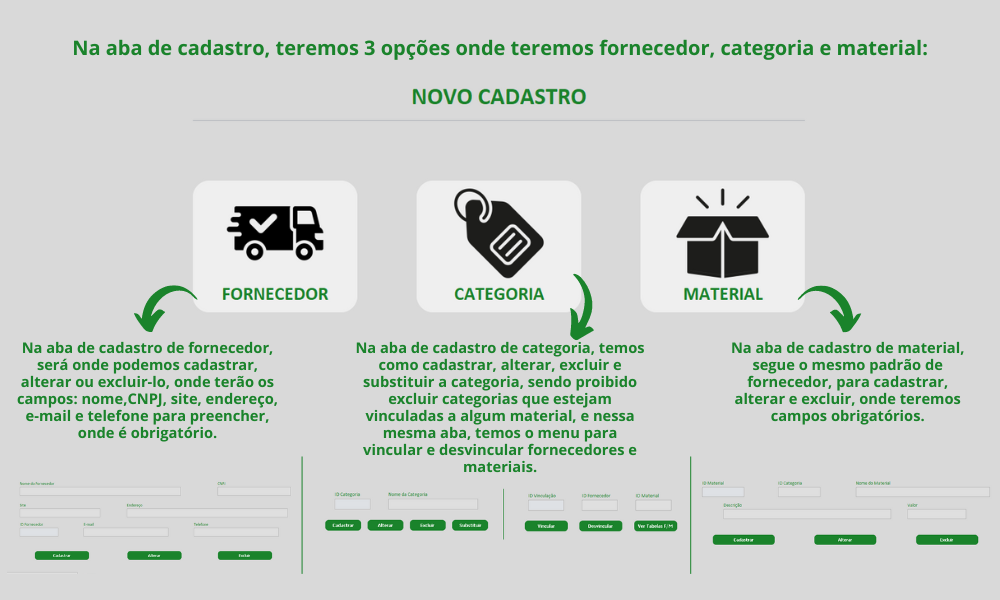
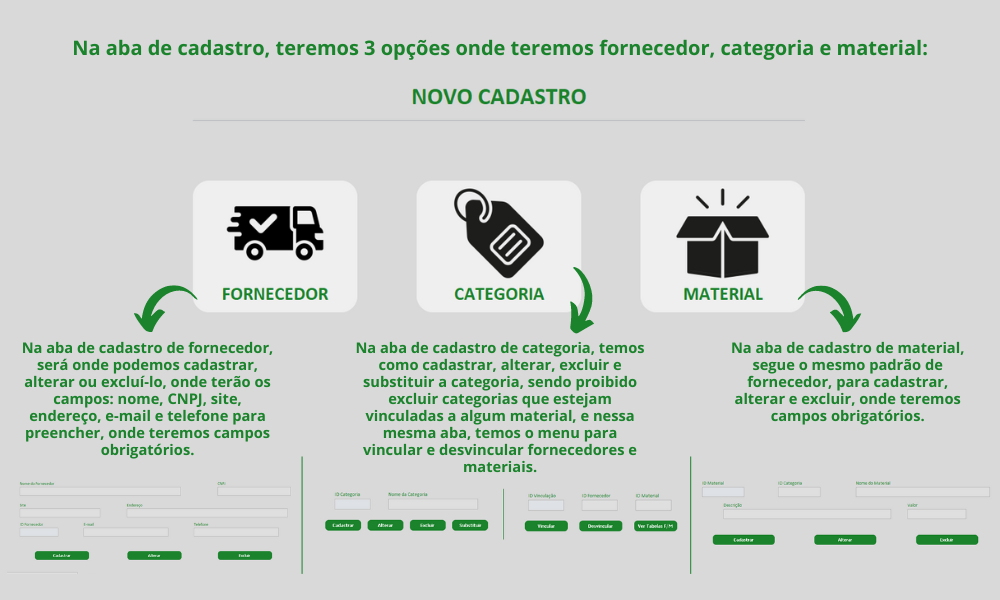
Commit 18.3 - Correção de Bugs nas menságens.

Changed region(s): [[0.0, 0.63, 0.279, 0.78], [0.558, 0.51, 0.589, 0.57], [0.558, 0.45, 0.589, 0.48]]

diff --git a/src/br/com/teste/telas/testeMenuNovo.java b/src/br/com/teste/telas/testeMenuNovo.java
@@ -10,6 +10,7 @@ import br.com.teste.dal.Conexao;
 import br.com.teste.uteis.PopupCategoria;
 import br.com.teste.uteis.PopupTabelasVM;
 import com.k33ptoo.components.KButton;
+import com.mysql.cj.jdbc.exceptions.MysqlDataTruncation;
 import java.awt.Color;
 import javax.swing.JOptionPane;
 import javax.swing.*;
@@ -66,21 +67,24 @@ public class testeMenuNovo extends javax.swing.JFrame {
             pst.setString(5, txtFornEndereco.getText());
             pst.setString(6, txtFornSite.getText());
 
-            if ((txtFornNome.getText().isEmpty()) || (txtFornEmail.getText().isEmpty()) || (txtFornFone.getText().isEmpty())) {
+            if (txtFornNome.getText().isEmpty() || txtFornEmail.getText().isEmpty() || txtFornFone.getText().isEmpty()) {
                 JOptionPane.showMessageDialog(null, "Preencha todos os Campos Obrigatórios.");
             } else {
-
                 int adicionado = pst.executeUpdate();
 
                 if (adicionado > 0) {
                     JOptionPane.showMessageDialog(null, "Fornecedor Cadastrado com Sucesso.");
 
-                    limpar(); //chamando a função de limpar os campos
+                    limpar(); // chamando a função de limpar os campos
                     atualizarTabelas();
                 }
             }
-        } catch (HeadlessException | SQLException e) {
-            JOptionPane.showMessageDialog(null, e);
+        } catch (MysqlDataTruncation e) {
+            JOptionPane.showMessageDialog(null, "Um dos campos excedeu o tamanho permitido.");
+        } catch (SQLException e) {
+            JOptionPane.showMessageDialog(null, "Erro no banco de dados.");
+        } catch (HeadlessException e) {
+            JOptionPane.showMessageDialog(null, "Erro inesperado na interface gráfica.");
         }
     }
 
@@ -151,8 +155,12 @@ public class testeMenuNovo extends javax.swing.JFrame {
                     btnAdicionar.setkHoverColor(new Color(52, 153, 68));
                 }
             }
-        } catch (HeadlessException | SQLException e) {
-            JOptionPane.showMessageDialog(null, e);
+        } catch (MysqlDataTruncation e) {
+            JOptionPane.showMessageDialog(null, "Um dos campos excedeu o tamanho permitido.");
+        } catch (SQLException e) {
+            JOptionPane.showMessageDialog(null, "Erro no banco de dados.");
+        } catch (HeadlessException e) {
+            JOptionPane.showMessageDialog(null, "Erro inesperado na interface gráfica.");
         }
     }
 
@@ -215,8 +223,12 @@ public class testeMenuNovo extends javax.swing.JFrame {
                     atualizarTabelas();
                 }
             }
-        } catch (Exception e) {
-            JOptionPane.showMessageDialog(null, e);
+        } catch (MysqlDataTruncation e) {
+            JOptionPane.showMessageDialog(null, "Um dos campos excedeu o tamanho permitido.");
+        } catch (SQLException e) {
+            JOptionPane.showMessageDialog(null, "Erro no banco de dados.");
+        } catch (HeadlessException e) {
+            JOptionPane.showMessageDialog(null, "Erro inesperado na interface gráfica.");
         }
     }
 
@@ -305,8 +317,12 @@ public class testeMenuNovo extends javax.swing.JFrame {
                     btnCadastrarMat.setkHoverColor(new Color(52, 153, 68));
                 }
             }
-        } catch (HeadlessException | SQLException e) {
-            JOptionPane.showMessageDialog(null, e);
+        } catch (MysqlDataTruncation e) {
+            JOptionPane.showMessageDialog(null, "Um dos campos excedeu o tamanho permitido.");
+        } catch (SQLException e) {
+            JOptionPane.showMessageDialog(null, "Erro no banco de dados.");
+        } catch (HeadlessException e) {
+            JOptionPane.showMessageDialog(null, "Erro inesperado na interface gráfica.");
         }
     }
 
@@ -367,8 +383,12 @@ public class testeMenuNovo extends javax.swing.JFrame {
                     atualizarTabelas();
                 }
             }
-        } catch (HeadlessException | SQLException e) {
-            JOptionPane.showMessageDialog(null, e);
+        } catch (MysqlDataTruncation e) {
+            JOptionPane.showMessageDialog(null, "Um dos campos excedeu o tamanho permitido.");
+        } catch (SQLException e) {
+            JOptionPane.showMessageDialog(null, "Erro no banco de dados.");
+        } catch (HeadlessException e) {
+            JOptionPane.showMessageDialog(null, "Erro inesperado na interface gráfica.");
         }
     }
 
@@ -398,8 +418,12 @@ public class testeMenuNovo extends javax.swing.JFrame {
                     btnCadastrarCat.setkHoverColor(new Color(52, 153, 68));
                 }
             }
-        } catch (HeadlessException | SQLException e) {
-            JOptionPane.showMessageDialog(null, e);
+        } catch (MysqlDataTruncation e) {
+            JOptionPane.showMessageDialog(null, "Um dos campos excedeu o tamanho permitido.");
+        } catch (SQLException e) {
+            JOptionPane.showMessageDialog(null, "Erro no banco de dados.");
+        } catch (HeadlessException e) {
+            JOptionPane.showMessageDialog(null, "Erro inesperado na interface gráfica.");
         }
     }
 
@@ -440,7 +464,7 @@ public class testeMenuNovo extends javax.swing.JFrame {
                     substituir_categoria(); // Chamar a função de substituição de categoria
                 } else {
                     e.printStackTrace();
-                    JOptionPane.showMessageDialog(null, "Erro ao excluir a categoria: " + e.getMessage());
+                    JOptionPane.showMessageDialog(null, "Erro ao excluir a categoria.");
                 }
             }
         }
@@ -458,7 +482,7 @@ public class testeMenuNovo extends javax.swing.JFrame {
             }
         } catch (SQLException e) {
             e.printStackTrace();
-            JOptionPane.showMessageDialog(null, "Erro ao verificar a existência da categoria: " + e.getMessage());
+            JOptionPane.showMessageDialog(null, "Erro ao verificar a existência da categoria.");
         }
         return false;
     }
@@ -490,7 +514,7 @@ public class testeMenuNovo extends javax.swing.JFrame {
             }
         } catch (SQLException e) {
             e.printStackTrace();
-            JOptionPane.showMessageDialog(null, "Erro ao substituir a categoria: " + e.getMessage());
+            JOptionPane.showMessageDialog(null, "Erro ao substituir a categoria.");
         }
     }
 
@@ -518,8 +542,12 @@ public class testeMenuNovo extends javax.swing.JFrame {
                     atualizarTabelas();
                 }
             }
-        } catch (HeadlessException | SQLException e) {
-            JOptionPane.showMessageDialog(null, e);
+        } catch (MysqlDataTruncation e) {
+            JOptionPane.showMessageDialog(null, "Um dos campos excedeu o tamanho permitido.");
+        } catch (SQLException e) {
+            JOptionPane.showMessageDialog(null, "Erro no banco de dados.");
+        } catch (HeadlessException e) {
+            JOptionPane.showMessageDialog(null, "Erro inesperado na interface gráfica.");
         }
     }
 
@@ -548,8 +576,12 @@ public class testeMenuNovo extends javax.swing.JFrame {
                     btnVincularFM.setkBackGroundColor(new Color(26, 131, 43));
                     btnVincularFM.setkHoverColor(new Color(52, 153, 68));
                 }
-            } catch (HeadlessException | SQLException e) {
-                // Lidar com a exceção aqui
+            } catch (MysqlDataTruncation e) {
+                JOptionPane.showMessageDialog(null, "Um dos campos excedeu o tamanho permitido.");
+            } catch (SQLException e) {
+                JOptionPane.showMessageDialog(null, "Erro no banco de dados.");
+            } catch (HeadlessException e) {
+                JOptionPane.showMessageDialog(null, "Erro inesperado na interface gráfica.");
             }
         }
     }
@@ -708,8 +740,12 @@ public class testeMenuNovo extends javax.swing.JFrame {
                     atualizarTabelas();
                 }
             }
-        } catch (HeadlessException | SQLException e) {
-            JOptionPane.showMessageDialog(null, e);
+        } catch (MysqlDataTruncation e) {
+            JOptionPane.showMessageDialog(null, "Um dos campos excedeu o tamanho permitido.");
+        } catch (SQLException e) {
+            JOptionPane.showMessageDialog(null, "Erro no banco de dados.");
+        } catch (HeadlessException e) {
+            JOptionPane.showMessageDialog(null, "Erro inesperado na interface gráfica.");
         }
     }
 
@@ -756,8 +792,12 @@ public class testeMenuNovo extends javax.swing.JFrame {
                     atualizarTabelas();
                 }
             }
-        } catch (HeadlessException | SQLException e) {
-            JOptionPane.showMessageDialog(null, e);
+        } catch (MysqlDataTruncation e) {
+            JOptionPane.showMessageDialog(null, "Um dos campos excedeu o tamanho permitido.");
+        } catch (SQLException e) {
+            JOptionPane.showMessageDialog(null, "Erro no banco de dados.");
+        } catch (HeadlessException e) {
+            JOptionPane.showMessageDialog(null, "Erro inesperado na interface gráfica.");
         }
     }
 
